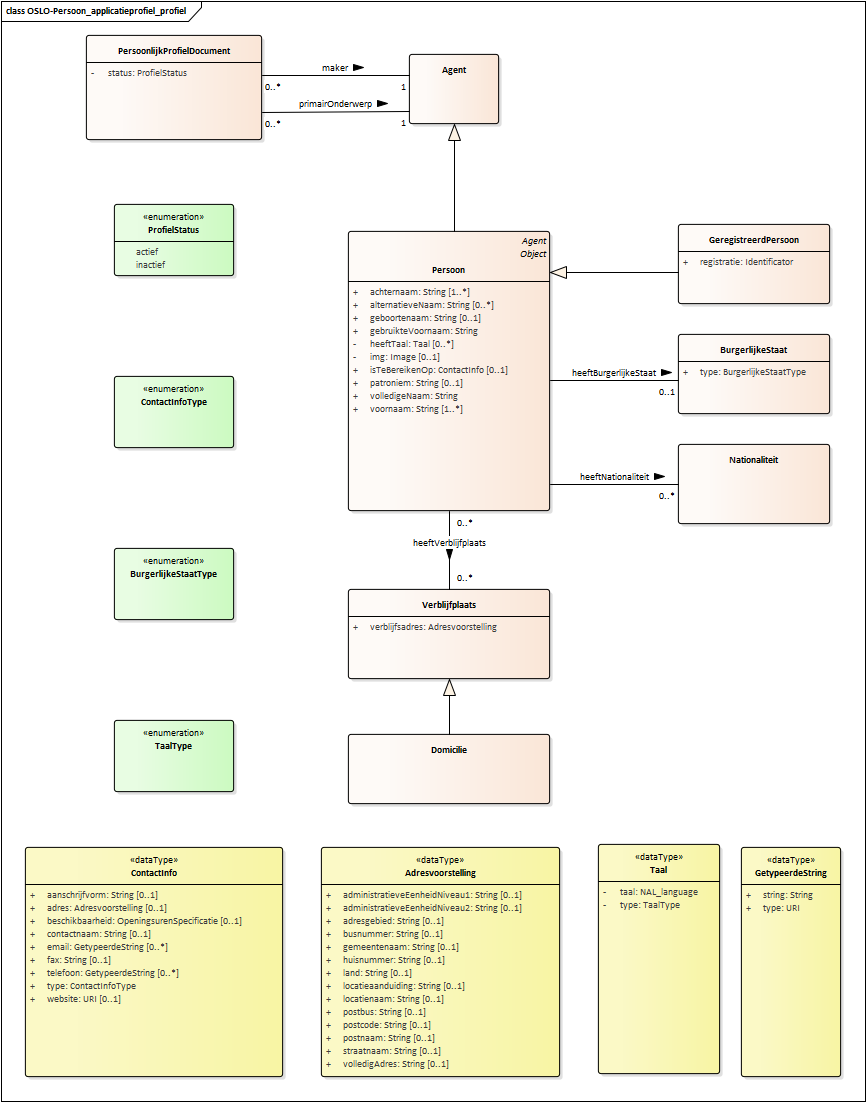
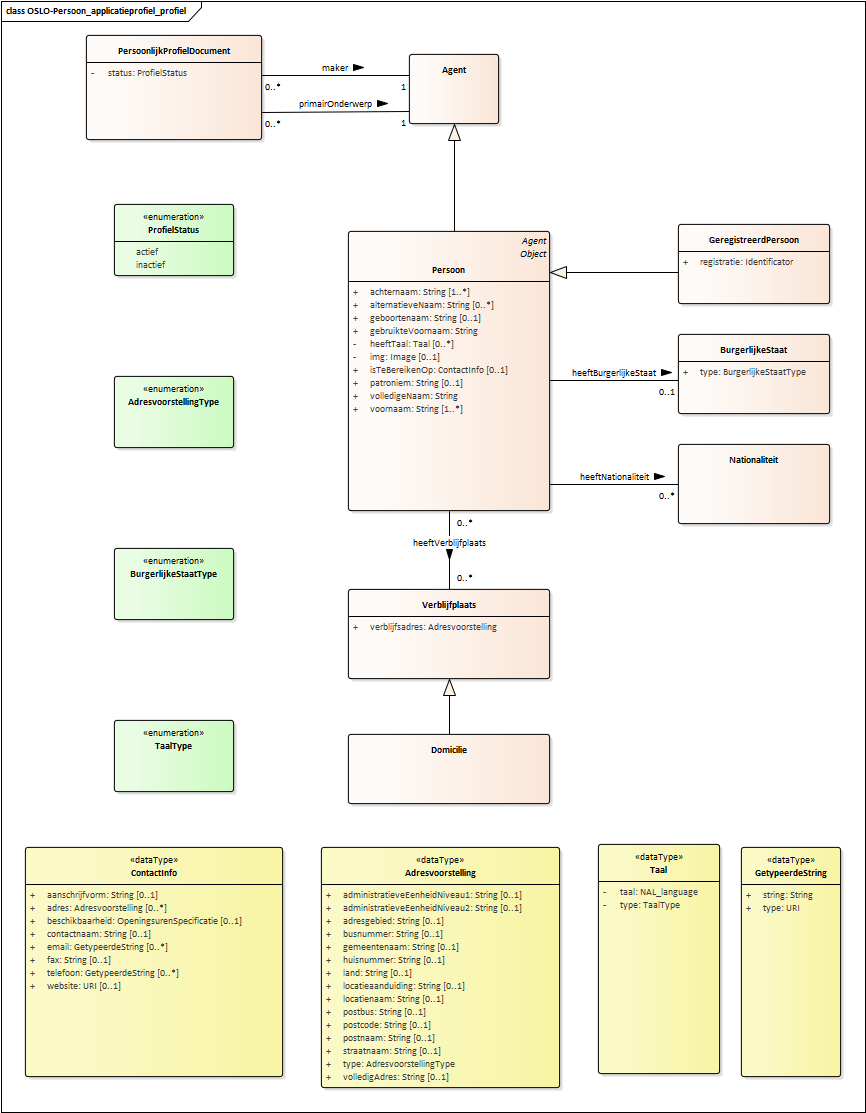
update ContactInfo (type verwijdert, type toegevoegd in Adresvoorstelling)

diff --git a/profiel/profiel-ap.html b/profiel/profiel-ap.html
@@ -47,7 +47,7 @@
                         
                         <dt>Laatste aanpassing</dt>
 
-                        <dd>2017-07-13
+                        <dd>2017-08-09
                         </dd>
                         
 
@@ -699,6 +699,21 @@ die toelaat de Persoon te contacteren.</td>
   }
 ],
 "isTeBereikenOp": {
+  "adres": [
+    {
+      "straatnaam": "Naamesestraat",
+      "huisnummer": "51",
+      "gemeentenaam": "Leuven",
+      "land": "België",
+      "type": "verzendadres"
+    },{
+      "straatnaam": "Lubbeekstraat",
+      "huisnummer": "20",
+      "gemeentenaam": "Lubbeek",
+      "land": "België",
+      "type": "verblijfadres"
+    }
+  ],
   "email": ["jan.jansens@gmail.com", "j.jansens@outlook.com"],
   "telefoon": ["0488010101", "0488020202"]
 }
@@ -881,7 +896,7 @@ die toelaat de Persoon te contacteren.</td>
 "@id": "https://data.vlaanderen.be/id/persoon/00000014182",
 "heeftVerblijfplaats": [
   {
-    "@type": "Domicilie"
+    "@type": "Domicilie",
     "verblijfsadres": {
       "straatnaam": "Lubbeekstraat",
       "huisnummer": "20",
@@ -1226,7 +1241,7 @@ die toelaat de Persoon te contacteren.</td>
 "@id": "https://data.vlaanderen.be/id/persoon/00000014182",
 "heeftVerblijfplaats": [
   {
-    "@type": "Domicilie"
+    "@type": "Domicilie",
     "verblijfsadres": {
       "straatnaam": "Lubbeekstraat",
       "huisnummer": "20",
@@ -1305,7 +1320,7 @@ die toelaat de Persoon te contacteren.</td>
                             </code>
                             </td>
                             <td><a href="http://www.w3.org/ns/locn#Address" data-toggle="tooltip" data-content="http://www.w3.org/ns/locn#Address" data-placement="right">Adresvoorstelling</a></td>
-                            <td>0 .. 1</td>
+                            <td>0 .. *</td>
                             <td property="rdfs:comment">TODO</td>
                             <td property="vann:usageNote"></td>
                             <td></td>
@@ -1414,26 +1429,6 @@ die toelaat de Persoon te contacteren.</td>
                           
                           
                           
-                          <tr typeof="rdfs:Property" resource="http://purl.org/dc/terms/type">
-                            <td>
-                            <code property="rdfs:label">
-                                <a href="http://purl.org/dc/terms/type" data-toggle="tooltip" data-content="http://purl.org/dc/terms/type" data-placement="right">
-                                
-                                type
-                                
-                                </a>
-                            </code>
-                            </td>
-                            <td><a href="" data-toggle="tooltip" data-content="" data-placement="right">ContactInfoType</a></td>
-                            <td>1 .. 1</td>
-                            <td property="rdfs:comment">Het type ContactInfo.</td>
-                            <td property="vann:usageNote"></td>
-                            <td></td>
-                          </tr>
-                          
-                          
-                          
-                          
                           <tr typeof="rdfs:Property" resource="http://xmlns.com/foaf/0.1/page">
                             <td>
                             <code property="rdfs:label">
@@ -1465,17 +1460,38 @@ die toelaat de Persoon te contacteren.</td>
 "isTeBereikenOp": {
   "email": ["jan.jansens@gmail.com", "j.jansens@outlook.com"],
   "telefoon": ["0488010101", "0488020202"]
-  "adres": {
-    "straatnaam": "Lubbeekstraat",
-    "huisnummer": "20",
-    "gemeentenaam": "Lubbeek",
-    "land": "België"
-  },
-  "aanschrijfvorm": "De heer"
 }
 </pre>
                       </div>
-                    </div>                   
+                    </div> 
+                    <div class="example">
+                        <span>Voorbeeld JSON-LD:</span>
+                        <div style="background:#efefef">
+                          <pre class="prettyprint">
+"@id": "https://data.vlaanderen.be/id/persoon/00000014182", 
+"@type": "Persoon",
+"isTeBereikenOp": {
+  "adres": [
+    {
+      "straatnaam": "Naamesestraat",
+      "huisnummer": "51",
+      "gemeentenaam": "Leuven",
+      "land": "België",
+      "type": "verzendadres"
+    },{
+      "straatnaam": "Lubbeekstraat",
+      "huisnummer": "20",
+      "gemeentenaam": "Lubbeek",
+      "land": "België",
+      "type": "verblijfadres"
+    }
+  ],
+  "email": ["jan.jansens@gmail.com", "j.jansens@outlook.com"],
+  "telefoon": ["0488010101", "0488020202"]
+}
+</pre>
+                      </div>
+                    </div>                
               </div>
             </div>
           </div>
